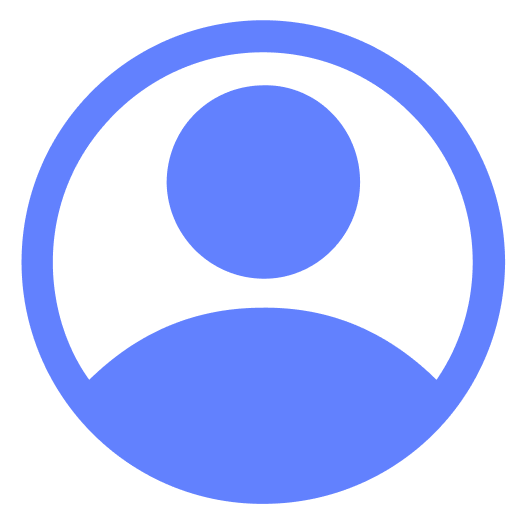
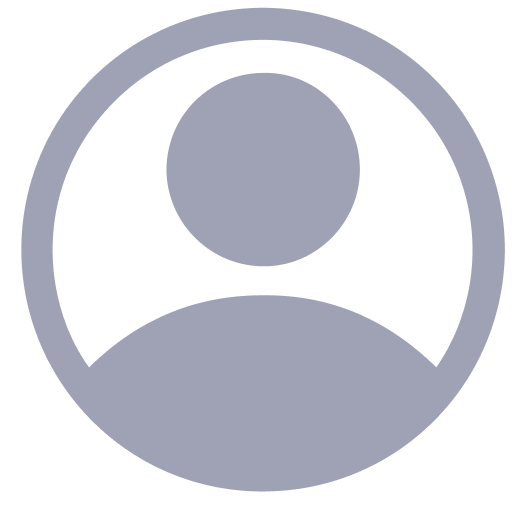
changes

diff --git a/resources/views/engineer_company/company_info.blade.php b/resources/views/engineer_company/company_info.blade.php
@@ -222,7 +222,7 @@
                                                         <input type="text" name="payment_method"
                                                                class="form-control w-100 custom_input"
                                                                aria-describedby="emailHelp"
-                                                               placeholder="{{ __('translation.Jewon Lee') }}"
+                                                               placeholder="{{ __('translation.Payment method') }}"
                                                                required
                                                                @if (!empty($customer->ASInformation)) value="{{ $customer->ASInformation->payment_method }}" @endif>
 
@@ -314,6 +314,7 @@
                                                         </label></div>
                                                     <div class="col-md-8 col-12"><input type="text" name="contacts"
                                                             class="form-control w-100 custom_input"
+                                                                                        placeholder="{{ __('translation.contact 1/contact 2') }}"
                                                             aria-describedby="emailHelp" required
                                                             @if (!empty($customer->RepairCompanyInformation)) value="{{ $customer->RepairCompanyInformation->contacts }}" @endif>
                                                     </div>
@@ -329,6 +330,7 @@
                                                     <div class="col-md-8 col-12"><input type="text" name="fax"
                                                             class="form-control w-100 custom_input"
                                                             aria-describedby="emailHelp"
+                                                                                        placeholder="02-4347-4893"
                                                             @if (!empty($customer->RepairCompanyInformation)) value="{{ $customer->RepairCompanyInformation->fax }}" @endif>
                                                     </div>
                                                 </div>
@@ -342,6 +344,7 @@
                                                     <div class="col-md-8 col-12"><input type="email" name="email"
                                                             class="form-control w-100 custom_input"
                                                             aria-describedby="emailHelp"
+                                                                                        placeholder="{{ __('translation.Enter email') }}"
                                                             @if (!empty($customer->RepairCompanyInformation)) value="{{ $customer->RepairCompanyInformation->email }}" @endif>
                                                     </div>
                                                 </div>

diff --git a/lang/kr/translation.php b/lang/kr/translation.php
@@ -37,7 +37,7 @@ return [
     'contact 1/contact 2' => '연락처1 / 연락처2',
     'Save and Next' => '저장 및 다음',
     'Weekend Duty' => '평일당직',
-    'Weekend Shift' => '주말당직',
+    'Weekend Shift' => '평일당직',
     'Night Shift' => '야간당직',
     'Holiday Duty' => '연휴당직',
     'construction' => '공사',
@@ -65,11 +65,11 @@ return [
     'close' => '닫기',
     'create' => '생성',
     'delete' => '삭제',
-    'Fill in customer information' => '고객 정보 입력',
+    'Fill in customer information' => '고객 정보 작성',
     'Customer information creation page' => '고객 정보 작성 페이지',
     'AS Information' => 'AS 정보',
     'Repair Company Name' => '보수업체',
-    'Contract Date' => '계약기간',
+    'Contract Date' => '계약일자',
     'Jewon Lee' => '홍길동', // This is example name like John Doe. This is the blank where name should go in.
     'fee' => '보수료',
     'Tax invoice issue date' => '세금계산서 발행일',
@@ -99,7 +99,7 @@ return [
     'confirm' => '확인',
     'Input Customer Information' => '고객 정보 입력',
     'Create Customer Info' => '고객정보 페이지 작성',
-    'Fill Dispatch Confirmation' => '고객정보 페이지 작성',
+    'Fill Dispatch Confirmation' => '출동 확인서 작성',
     'Fill Regular Inspection Log' => '정기점검일지 작성',
     'Contract Managment' => '계약관리',
     'Quote Management' => '견적서 관리',

diff --git a/resources/views/engineer_company/includes/sidebar.blade.php b/resources/views/engineer_company/includes/sidebar.blade.php
@@ -9,7 +9,7 @@
                 @if((!empty(activeGuard())) && (activeGuard() != 'engineer') && (activeGuard() != 'web'))
                     <li class="sidebr_button">
                         <a href="javascript: void(0);" class="waves-effect dropdown_toggle">
-                            <img src="{{asset('engineer_company/assets/images/blue-profile.png')}}"
+                            <img src="{{asset('engineer_company/assets/images/user.png')}}"
                                  class="double_ring_img p-0"
                                  style="margin-left: -1px;">
                             <span key="t-dashboards" class="dropdown_text">{{ __('translation.Customer List') }}</span>
@@ -49,7 +49,7 @@
                                             ...</a></li>
 
                                     <li><a key="t-saas" class="list_menubar_text"
-                                           title="AS Info & Engineer company Info"><span class="custom_dot">.</span>AS
+                                           title="AS Info & Engineer company Info"><span class="custom_dot">.</span>
                                             {{ __('translation.Info & Engineer') }}...</a></li>
 
                                     <li><a key="t-crypto"

diff --git a/resources/views/engineer_company/customer_list.blade.php b/resources/views/engineer_company/customer_list.blade.php
@@ -50,7 +50,7 @@
                                                 <div class="custom_search">
                                                     <div class="search mt-4">
                                                         <input type="text" class="form-control" name="keyword"
-                                                               placeholder="search" autocomplete="off" required>
+                                                               placeholder="{{__('translation.search')}}" autocomplete="off" required>
                                                         <button type="submit" class="btn btn-primary searchbar_button">
                                                             <div class="search_img">
                                                                 <img

diff --git a/config/app.php b/config/app.php
@@ -82,7 +82,7 @@ return [
     |
     */
 
-    'locale' => 'en',
+    'locale' => 'kr',
 
     /*
     |--------------------------------------------------------------------------
